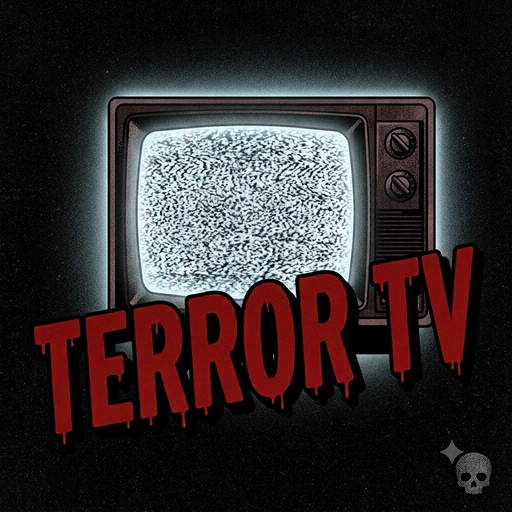
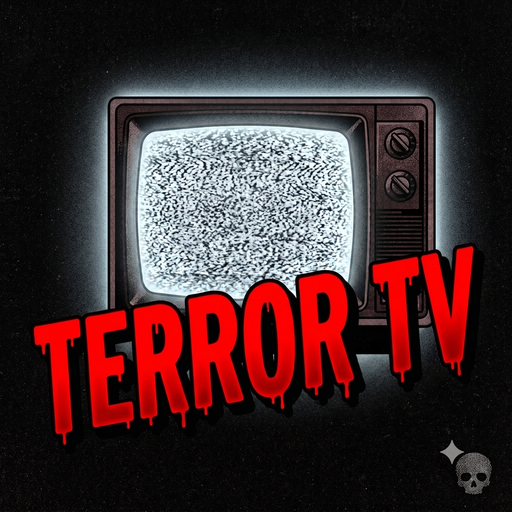
Art wave: mascot greeter, Full Throttle, Combat, Miami Nice, Mayberry + 4 redos

Changed region(s): [[0.0625, 0.25, 0.6875, 0.875], [0.7188, 0.4688, 0.9375, 0.75], [0.8438, 0.8438, 0.9062, 0.9062]]

diff --git a/index.html b/index.html
@@ -120,7 +120,11 @@
     <div class="card soonish"><img src="https://raw.githubusercontent.com/savagebroadcasting/savagebroadcasting.github.io/master/dead-air.png"><div><div class="num">CH 13</div><div class="name">Dead Air</div><div class="desc">Zombies, all of them — The Walking Dead &amp; the living-dead films</div></div></div>
     <div class="card soonish"><img src="https://raw.githubusercontent.com/savagebroadcasting/savagebroadcasting.github.io/master/drive-in-v1.png"><div><div class="num">CH 35</div><div class="name">The Drive-In</div><div class="desc">Movie night, every night — the whole film library</div></div></div>
     <div class="card soonish"><img src="https://raw.githubusercontent.com/savagebroadcasting/savagebroadcasting.github.io/master/terror-tv.png"><div><div class="num">CH 66</div><div class="name">Terror TV</div><div class="desc">Horror that keeps the lights on</div></div></div>
-    <div class="card soonish"><img src="https://raw.githubusercontent.com/savagebroadcasting/savagebroadcasting.github.io/master/kaboom.png"><div><div class="num">SOON</div><div class="name">Kaboom</div><div class="desc">Action that blows up real good</div></div></div>
+    <div class="card soonish"><img src="https://raw.githubusercontent.com/savagebroadcasting/savagebroadcasting.github.io/master/kaboom.png"><div><div class="num">CH 42</div><div class="name">Kaboom</div><div class="desc">Superheroes — capes, cowls &amp; comic-book KAPOW</div></div></div>
+    <div class="card soonish"><img src="https://raw.githubusercontent.com/savagebroadcasting/savagebroadcasting.github.io/master/full-throttle.png"><div><div class="num">CH 40</div><div class="name">Full Throttle</div><div class="desc">High-octane action — burn rubber</div></div></div>
+    <div class="card soonish"><img src="https://raw.githubusercontent.com/savagebroadcasting/savagebroadcasting.github.io/master/combat.png"><div><div class="num">CH 41</div><div class="name">Combat</div><div class="desc">War films &amp; miniseries — Band of Brothers country</div></div></div>
+    <div class="card soonish"><img src="https://raw.githubusercontent.com/savagebroadcasting/savagebroadcasting.github.io/master/mayberry-tv.png"><div><div class="num">SOON</div><div class="name">Mayberry TV</div><div class="desc">All Andy Griffith, whistling included</div></div></div>
+    <div class="card soonish"><img src="https://raw.githubusercontent.com/savagebroadcasting/savagebroadcasting.github.io/master/miami-nice.png"><div><div class="num">SOON</div><div class="name">Miami Nice</div><div class="desc">The Golden Girls — thank you for being a friend</div></div></div>
     <div class="card soonish"><img src="https://raw.githubusercontent.com/savagebroadcasting/savagebroadcasting.github.io/master/lol-tv.png"><div><div class="num">SOON</div><div class="name">LOL</div><div class="desc">Comedy movies &amp; stand-up</div></div></div>
     <div class="card soonish"><img src="https://raw.githubusercontent.com/savagebroadcasting/savagebroadcasting.github.io/master/clue-tv.png"><div><div class="num">SOON</div><div class="name">Clue TV</div><div class="desc">Mysteries, thrillers &amp; crime</div></div></div>
     <div class="card soonish"><img src="https://raw.githubusercontent.com/savagebroadcasting/savagebroadcasting.github.io/master/wwf.png"><div><div class="num">CH 300</div><div class="name">WWF</div><div class="desc">The golden era of sports entertainment</div></div></div>
@@ -130,7 +134,7 @@
     <div class="card soonish"><img src="https://raw.githubusercontent.com/savagebroadcasting/savagebroadcasting.github.io/master/nxt.png"><div><div class="num">CH 304</div><div class="name">NXT</div><div class="desc">The next generation steps up</div></div></div>
   </div>
 
-  <div class="howto">
+  <div class="howto" style="display:flex;gap:22px;align-items:center;flex-wrap:wrap"><img src="https://raw.githubusercontent.com/savagebroadcasting/savagebroadcasting.github.io/master/mascot.png" style="width:140px;height:140px;border-radius:16px;flex-shrink:0" alt="SBC mascot"><div style="flex:1;min-width:260px">
     <h2>How to <span>Watch</span></h2>
     <ol>
       <li><b>Download Plex</b> (free) on your phone, tablet, Apple TV, smart TV, or computer.</li>
@@ -142,7 +146,7 @@
       <div class="way"><b>On Demand</b><br>Browse the categories — <b>TV Shows, Movies, Wrestling</b> &amp; more — and pick exactly what you want, when you want it.</div>
     </div>
     <div class="fine">Tip: if something looks stuck or new channels don't appear, fully close the Plex app and reopen it. Fixes almost everything.</div>
-  </div>
+  </div></div>
 
   <footer>
     <span class="moonlet">☾</span> &nbsp;A Savage Family Production · Est. 2026 · Broadcasting nightly from the living room&nbsp; <span class="moonlet">☾</span>